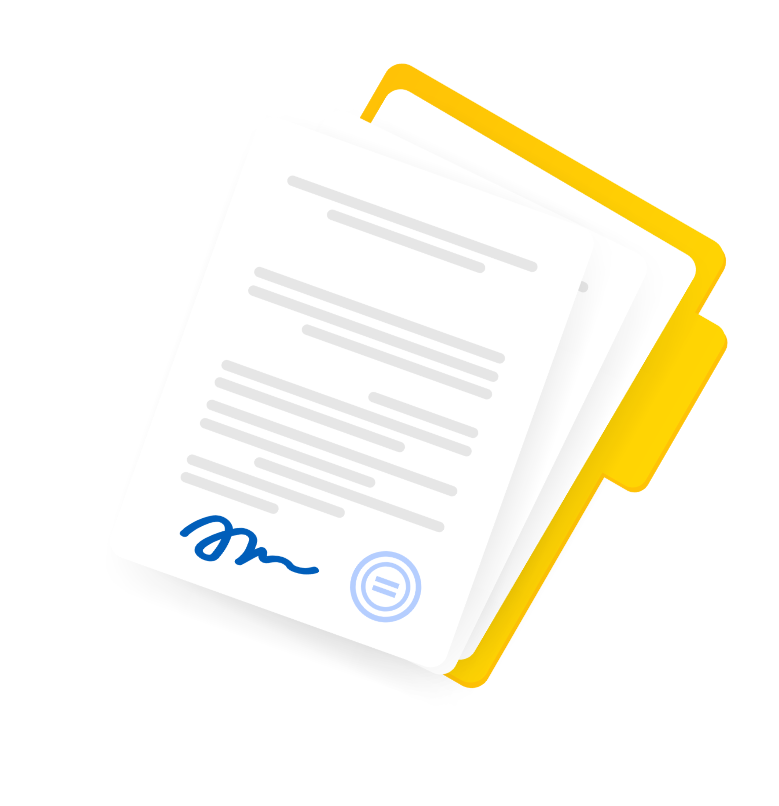
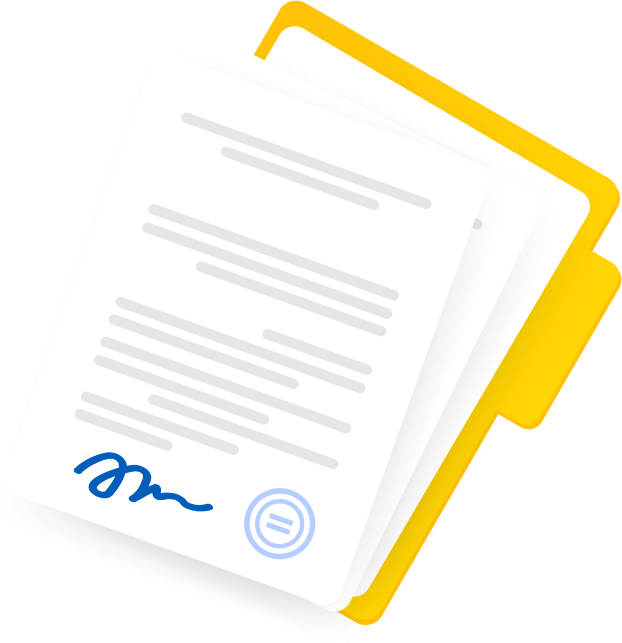
update

diff --git a/src/components/_hero.scss b/src/components/_hero.scss
@@ -28,6 +28,7 @@
 
 .hero-swiper {
   .swiper-slide {
+
     @include media-breakpoint-up(xl) {
       padding-top: 50px;
     }
@@ -63,6 +64,8 @@
   &__image {
     display: block;
     width: 100%;
+    max-height: 500px;
+    object-fit: contain;
   }
 
   &__title {
